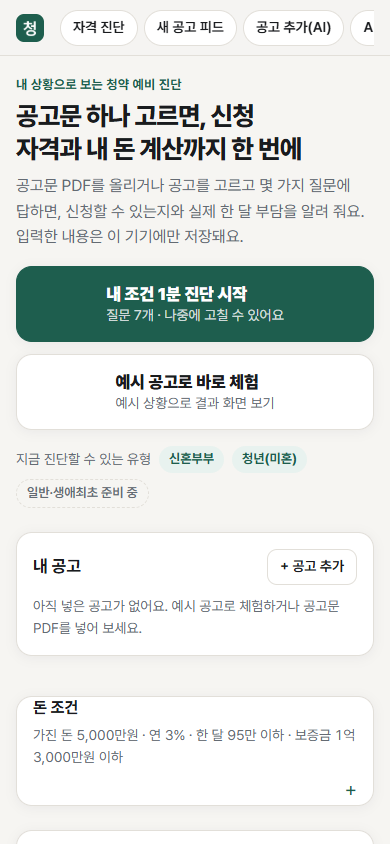
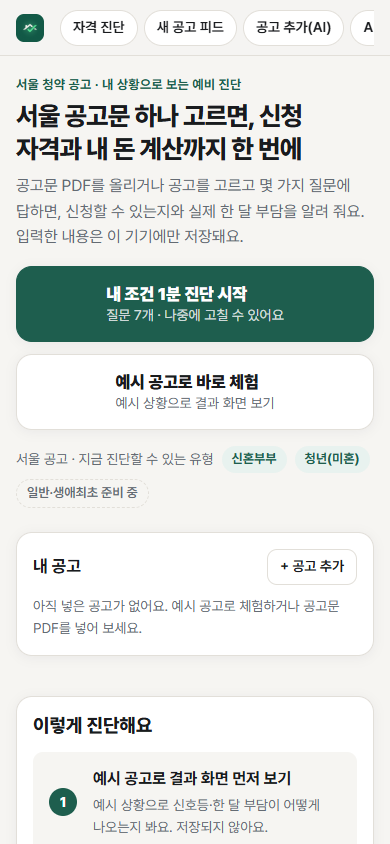
feat: 안티그래비티 아이콘 적용(sw 06b) · AI 붐빔(503) 2초 뒤 한 번 더·다시 시도(SUITABLE HOME 과 같게) · 첫 방문 3단계 안내 카드 · 1단계 유형 카드 누르면 바로 2단계 · 피드 커밋 전 pull

diff --git a/sw.js b/sw.js
@@ -3,7 +3,7 @@
 // - 아이콘 · 예시 공고 · manifest: 저장본 먼저 (없으면 받아서 저장)
 // - 다른 주소(AI·지도·글꼴)는 건드리지 않는다
 // 배포할 때 VERSION 을 바꾸면 새 저장소를 만들고 예전 것은 지운다 (scripts/verify/check.py 가 index.html·아이콘이 바뀌었는데 그대로면 알려 준다)
-const VERSION = 'cheongyak-check-2026-11-06a';
+const VERSION = 'cheongyak-check-2026-11-06b';
 const CORE = ['./', 'index.html', 'manifest.webmanifest', 'icons/icon-192.png', 'icons/icon-512.png', 'samples/notice_yongsan.json', 'feed/notices.json'];
 
 self.addEventListener('install', e => e.waitUntil(caches.open(VERSION).then(c => c.addAll(CORE)).then(() => self.skipWaiting())));

diff --git a/scripts/verify/check.py b/scripts/verify/check.py
@@ -80,11 +80,14 @@ ok('기존 데이터 없으면 가져오기 숨김', q('#importBanner').hidden &
 ok('첫 화면(100svh) 안에 진단·체험 버튼', q('#subSample').getBoundingClientRect().bottom <= fw.innerHeight, Math.round(q('#subSample').getBoundingClientRect().bottom));
 ok('PC 2단 (320px + 본문)', getComputedStyle(q('.dash')).gridTemplateColumns.split(' ').length === 2 && getComputedStyle(q('.side')).position === 'sticky', getComputedStyle(q('.dash')).gridTemplateColumns);
 ok('자체검사 함수가 실행됨(판정 코드 옮김)', typeof fw.eval('elig') === 'function' && typeof fw.eval('pickOption') === 'function');
-q('#actWiz').click(); await W(300);
+ok('첫 방문: 오른쪽에 3단계 안내 카드', qa('#subJudge .init-steps li').length === 3 && !!q('#subJudge [data-sample]') && !!q('#subJudge [data-wgo="0"]') && !!q('#subJudge [data-addn]'));
+q('#subJudge [data-wgo="0"]').click(); await W(300);
 ok('공고 없이도 질문 시작', !q('#subWiz').hidden && q('#wizCount').textContent.startsWith('1 / 7'));
 ok('유형 고르기에 준비 중 칸', q('.wiz-pick button.soon')?.disabled === true);
+ok('1단계에서는 다음 버튼 숨김', q('#wizNext').hidden);
 q('[data-wtier="newlywed"]').click(); await W(80);
-const bi = q('#subWiz .wiz-step[data-step="0"]'); for (let i = 0; i < 7; i++) { q('#wizNext').click(); await W(80); }
+ok('유형 카드 누르면 바로 2단계', q('#wizCount').textContent.startsWith('2 / 7') && !q('#wizNext').hidden, q('#wizCount').textContent);
+for (let i = 0; i < 6; i++) { q('#wizNext').click(); await W(80); }
 ok('질문 끝 → 요약 바 + 공고 안내', !q('#meBar').hidden && q('#subWiz').hidden && q('#subJudge').textContent.includes('공고를 고르면'), q('#meBar').textContent);
 q('#subJudge [data-sample]').click(); await W(900);
 ok('예시 공고 → 내 조건으로 판정(체험 아님)', !!q('#subJudge .sig') && !q('#subJudge').classList.contains('is-demo'), q('#subJudge .sig')?.textContent);
@@ -112,9 +115,9 @@ q('#subAddBtn').click(); await W(100);
 const pdf = await (await fetch('samples/notice_example.pdf')).blob(), dt = new fw.DataTransfer(); dt.items.add(new fw.File([pdf], 'notice_example.pdf', { type: 'application/pdf' }));
 q('#subPdf').files = dt.files; q('#subPdf').dispatchEvent(new fw.Event('change')); for (let n = 0; n < 30 && q('#subSend').hidden; n++) await W(100);   // FileReader 끝날 때까지
 ok('PDF 고르면 보낼 내용 안내 (버튼을 눌러야 보냄)', !q('#subSend').hidden && q('#subSend [data-what]').textContent.includes('notice_example.pdf'));
-const real = fw.fetch; fw.fetch = async (u, o) => { calls.push([String(u), String(o?.body || '').slice(0, 5)]); await W(100); return new fw.Response(JSON.stringify({ text: JSON.stringify({ ...(yong.notice ?? yong), id: 'ai-test', name: 'AI 테스트 공고', short: 'AI 테스트' }) })); };
-q('#subSend [data-go]').click(); for (let n = 0; n < 40 && fw.eval('state.subs.notices.length') < 2; n++) await W(100); fw.fetch = real;
-ok('AI 읽기 → 공고 추가 · PDF만 보냄', fw.eval('state.subs.notices.length') === 2 && calls.length === 1 && calls[0][0].endsWith('/notice') && calls[0][1] === 'JVBER', JSON.stringify(calls));
+const real = fw.fetch; fw.fetch = async (u, o) => { calls.push([String(u), String(o?.body || '').slice(0, 5)]); await W(100); if (calls.length === 1) return new fw.Response(JSON.stringify({ error: 'gemini', why: ['m: 503 UNAVAILABLE'] }), { status: 502 }); return new fw.Response(JSON.stringify({ text: JSON.stringify({ ...(yong.notice ?? yong), id: 'ai-test', name: 'AI 테스트 공고', short: 'AI 테스트' }) })); };
+q('#subSend [data-go]').click(); for (let n = 0; n < 60 && fw.eval('state.subs.notices.length') < 2; n++) await W(100); fw.fetch = real;
+ok('AI 붐빔(503) → 2초 뒤 한 번 더 → 공고 추가 · PDF만 보냄', fw.eval('state.subs.notices.length') === 2 && calls.length === 2 && calls.every(c => c[0].endsWith('/notice') && c[1] === 'JVBER'), JSON.stringify(calls));
 const yb = yong.notice ?? yong; fw.eval('addNotice')({ ...yb, id: 'gg', name: '경기 공고', short: '경기 공고', city: '경기', addr: '경기도 성남시 분당구 1', region: '분당구' }, '테스트'); await W(50);
 ok('서울 밖 공고는 넣지 않음', fw.eval('state.subs.notices.length') === 2 && q('#subMsg').textContent.includes('서울 공고만'), q('#subMsg').textContent);
 q('[data-jump="ai"]').click(); await W(100);

diff --git a/docs/work/HANDOFF.md b/docs/work/HANDOFF.md
@@ -9,7 +9,7 @@
 
 ## 다음
 
-- [ ] 사용자: Secrets `DATA_GO_KR_KEY` 넣기 → Actions "공고 피드" 수동 실행 (키 넣기 전에는 예약 실행이 실패로 표시됨)
-- [ ] 안티그래비티: 디자인 폴리싱 · PWA 아이콘(`icons/` 임시본 교체 → sw.js VERSION 올리기)
-- [ ] 첫 Actions 실행에서 공공데이터 API 가 해외(GitHub) 서버에서 되는지 확인
+- [x] Secrets `DATA_GO_KR_KEY` · Actions 첫 실행 성공 (해외 서버에서도 API 응답)
+- [x] 안티그래비티 아이콘 적용 (sw VERSION 06b) · AI 붐빔 2초 재시도 · 첫 방문 3단계 안내 · 1단계 카드 누르면 바로 다음
+- LH 0건 원인(2026-11-06 진단 `lh_probe.mjs`): 필터·필드 이름은 정상. 최근 90일 서울 LH 공고 8건이 모두 접수 마감이라 빠짐. 진단은 Actions → 공고 피드 → Run workflow → probe 체크
 - [ ] 2027-01-20 이후: SUITABLE HOME 청약 탭을 링크로 바꿀지 결정

diff --git a/CLAUDE.md b/CLAUDE.md
@@ -6,4 +6,5 @@
 - SUITABLE HOME 저장 키 `newlywed-home-v1` 은 읽기만 (check.py 정적 검사가 막음). 테스트는 임시 Chrome 프로필 + localhost 에서만
 - API 키를 코드·로그에 넣지 않는다 (공공데이터 키는 GitHub Secrets `DATA_GO_KR_KEY`). 회원가입·서버 저장·방문자 분석 도구 넣지 않기
 - index.html·아이콘·예시를 바꾸면 `sw.js` 의 VERSION 도 바꾼다 (check.py 가 알려 줌)
+- **push 전에 항상 `git pull --rebase origin main`** (Actions 가 공고 피드 커밋을 올림)
 - 커밋에 Claude 서명 줄 없음 · 커밋/push 는 확인받고
